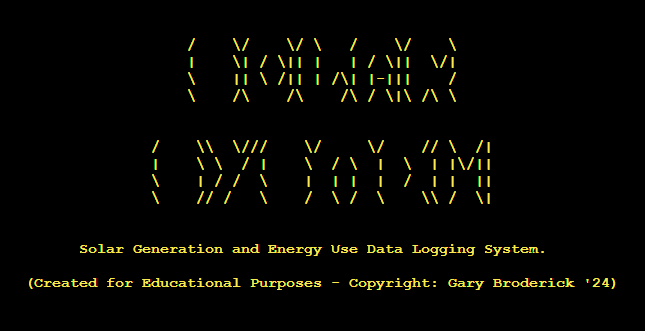
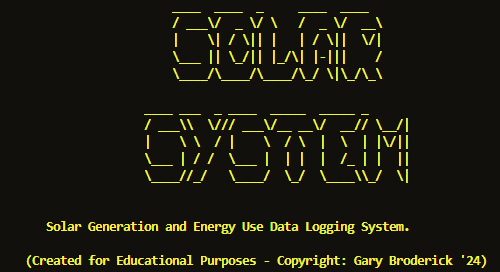
Update acsii image and readme file

diff --git a/run.py b/run.py
@@ -68,13 +68,13 @@ def prog_start():
                     \____//_/   \____/  \_/  \____\\_/  \|
 
     ''')
-    print(Fore.YELLOW + Style.BRIGHT + "            Solar Generation and Energy Use "
+    print(Fore.YELLOW + Style.BRIGHT + "      Solar Generation and Energy Use "
           "Data Logging System.\n")
     time.sleep(1)
-    print(Fore.YELLOW + Style.BRIGHT + "      (Created for Educational Purposes -"
+    print(Fore.YELLOW + Style.BRIGHT + "   (Created for Educational Purposes -"
           " Copyright: Gary Broderick '24)")
-    time.sleep(5)
-    clear_screen()
+    #time.sleep(5)
+    #clear_screen()
 
 
 def get_daily_data():
@@ -156,7 +156,7 @@ def validate_daily_data(values):
 
     if count == 1:
         print(Fore.RED + "Duplicate date entered, "
-            f"you provided {values[0]}.\n")
+              f"you provided {values[0]}.\n")
         return False
 
     return True
@@ -294,7 +294,7 @@ def calculate_project_payback():
     print("Calculating project payback...\n")
 
     payback = total_months - float(project_str)
-    
+
     return payback
 
 
@@ -312,7 +312,7 @@ def update_payback_worksheet(data):
     payback_list.append(data)
     # credit: https://stackoverflow.com/questions/75731307/
     payback_worksheet.update([[val] for val in payback_list], "A2")
-    
+
     print(Fore.GREEN + "Payback worksheet updated successfully.\n")
 
 

diff --git a/README.md b/README.md
@@ -267,7 +267,7 @@ The following test scenarios were executed on the application and results record
 ## Python3 PEP8 Validation
 All python code was validated using the Code Institute Python Linter. No errors found.
 
-![ Code Institute Python Linter ](documentation/validation/html/html-validation.PNG)
+![ Code Institute Python Linter ](documentation/images/linter.PNG)
 
 ## Deployment
 
